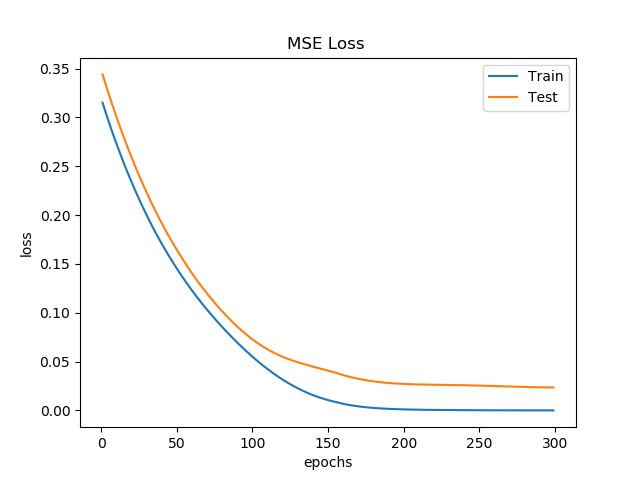
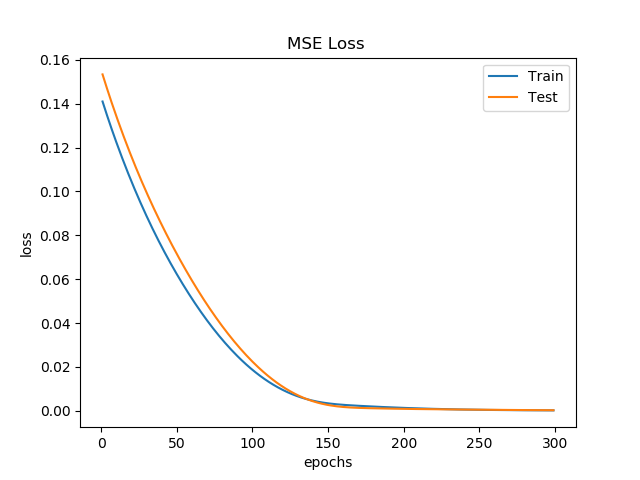
input to {x}dot

diff --git a/test.py b/test.py
@@ -20,9 +20,8 @@ for file in files:
 	data.append(f)
 data = np.vstack(data)
 
-xdata = np.zeros((len(data), 17))
-xdata[:,:9] = data[:,:9]
-xdata[:,9:] = data[:,12:]
+xdata = np.zeros((len(data), 3))
+xdata = data[:,3:6]
 
 ydata = data[:,9:12]
 x_train, x_test, y_train, y_test = xdata[:7000,:], xdata[7000:,:], ydata[:7000,:], ydata[7000:,:]
@@ -30,7 +29,7 @@ print(x_train.shape, x_test.shape, y_train.shape, y_test.shape)
 
 # N is batch size; D_in is input dimension;
 # H is hidden dimension; D_out is output dimension.
-batch_size, D_in, H, D_out = 64, 17, 5, 3
+batch_size, D_in, H, D_out = 64, len(xdata[0]), 5, 3
 
 # Create random Tensors to hold inputs and outputs
 tensor_data = torch.from_numpy(x_train).float()
